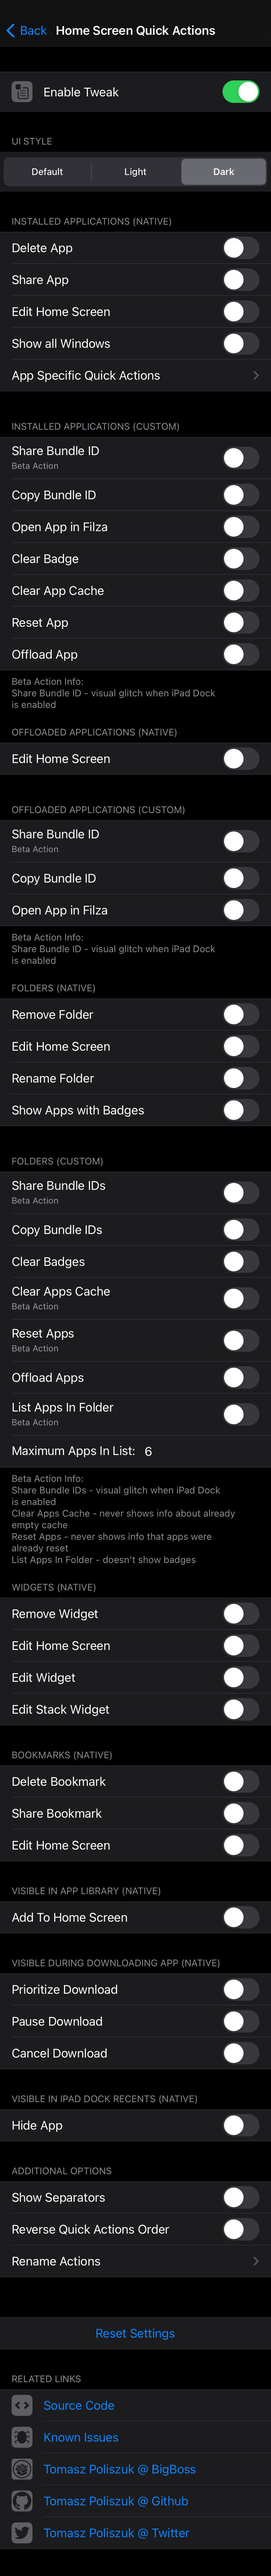
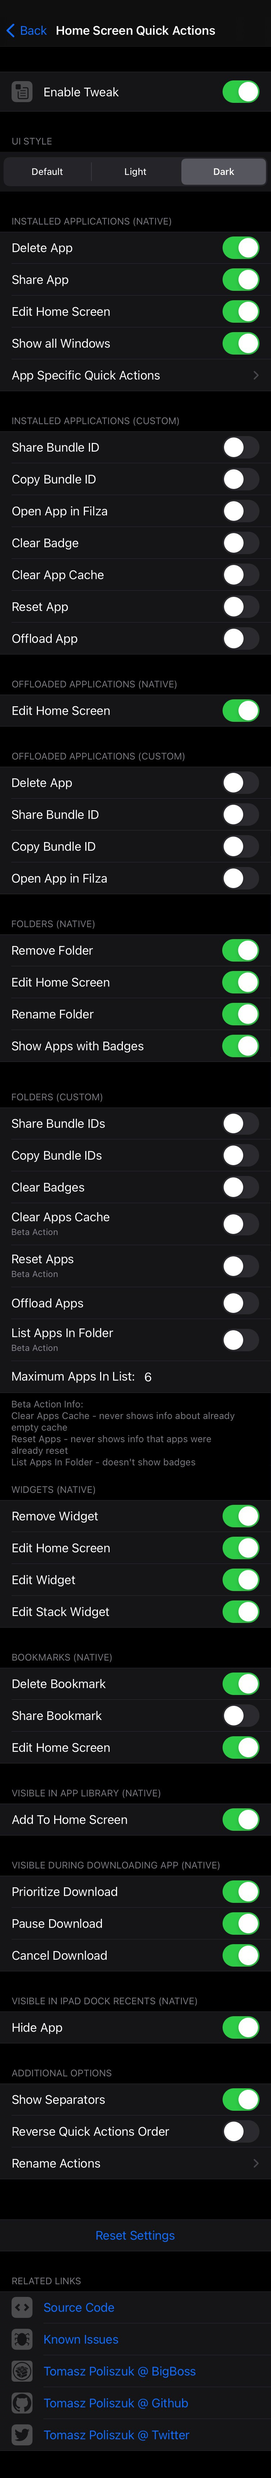
Added fix for sharing view, removed beta status of sharing actions

Changed region(s): [[0.0, 0.0, 1.0, 0.9962]]

diff --git a/BigBoss_description.html b/BigBoss_description.html
@@ -15,7 +15,7 @@
 - -	- Show all Windows<br>
 - -	- App Specific Quick Actions<br>
 - - Installed Applications (Custom):<br>
-- -	- Share Bundle ID (Beta)<br>
+- -	- Share Bundle ID<br>
 - -	- Copy Bundle ID<br>
 - -	- Open App in Filza<br>
 - -	- Clear Badge<br>
@@ -25,7 +25,7 @@
 - - Offloaded Applications (Native):<br>
 - -	- Edit Home Screen<br>
 - - Offloaded Applications (Custom):<br>
-- -	- Share Bundle ID (Beta)<br>
+- -	- Share Bundle ID<br>
 - -	- Copy Bundle ID<br>
 - -	- Open App in Filza<br>
 - - Folders (Native):<br>
@@ -34,7 +34,7 @@
 - -	- Rename Folder<br>
 - -	- Show Apps with Badges<br>
 - - Folders (Custom):<br>
-- -	- Share Bundle IDs (Beta)<br>
+- -	- Share Bundle IDs<br>
 - -	- Copy Bundle IDs<br>
 - -	- Clear Badges<br>
 - -	- Clear Apps Cache (Beta)<br>

diff --git a/HomeScreenQuickActionsSettings/HomeScreenQuickActionsApplicationSpecificQuickActions.mm b/HomeScreenQuickActionsSettings/HomeScreenQuickActionsApplicationSpecificQuickActions.mm
@@ -51,10 +51,7 @@
 			[specifier setProperty:[NSString stringWithFormat:@"appSpecificQuickActions-%@", applicationProxy.applicationIdentifier] forKey:@"key"];
 
 			bool isInstalled = applicationProxy.isInstalled;
-			bool isSystemApp = NO;
-			if ( [applicationProxy.applicationType isEqualToString:@"System"] ) {
-				isSystemApp = YES;
-			}
+			bool isSystemApp = [applicationProxy.applicationType isEqualToString:@"System"];
 
 			if ( isInstalled && isSystemApp ) {
 				[_specifiersInstalledSystemApps addObject:specifier];
@@ -65,21 +62,24 @@
 			}
 		}
 
-		[_specifiersInstalledSystemGroup addObject:[PSSpecifier groupSpecifierWithName:@"System Apps"]];
-		[_specifiersInstalledSystemApps sortUsingComparator:^NSComparisonResult(PSSpecifier *a, PSSpecifier *b) {
-			return [a.name localizedCaseInsensitiveCompare:b.name];
-		}];
-		[_specifiersInstalledSystemGroup addObjectsFromArray:_specifiersInstalledSystemApps];
-		self.specifiersInstalledSystemGroup = [_specifiersInstalledSystemGroup mutableCopy];
-		[_specifiers addObjectsFromArray:_specifiersInstalledSystemGroup];
-
-		[_specifiersInstalledUserGroup addObject:[PSSpecifier groupSpecifierWithName:@"User Apps"]];
-		[_specifiersInstalledUserApps sortUsingComparator:^NSComparisonResult(PSSpecifier *a, PSSpecifier *b) {
-			return [a.name localizedCaseInsensitiveCompare:b.name];
-		}];
-		[_specifiersInstalledUserGroup addObjectsFromArray:_specifiersInstalledUserApps];
-		self.specifiersInstalledUserGroup = [_specifiersInstalledUserGroup mutableCopy];
-		[_specifiers addObjectsFromArray:_specifiersInstalledUserGroup];
+		if ( _specifiersInstalledSystemApps.count > 0 ) {
+			[_specifiersInstalledSystemGroup addObject:[PSSpecifier groupSpecifierWithName:@"System Apps"]];
+			[_specifiersInstalledSystemApps sortUsingComparator:^NSComparisonResult(PSSpecifier *a, PSSpecifier *b) {
+				return [a.name localizedCaseInsensitiveCompare:b.name];
+			}];
+			[_specifiersInstalledSystemGroup addObjectsFromArray:_specifiersInstalledSystemApps];
+			self.specifiersInstalledSystemGroup = [_specifiersInstalledSystemGroup mutableCopy];
+			[_specifiers addObjectsFromArray:_specifiersInstalledSystemGroup];
+		}
+		if ( _specifiersInstalledUserApps.count > 0 ) {
+			[_specifiersInstalledUserGroup addObject:[PSSpecifier groupSpecifierWithName:@"User Apps"]];
+			[_specifiersInstalledUserApps sortUsingComparator:^NSComparisonResult(PSSpecifier *a, PSSpecifier *b) {
+				return [a.name localizedCaseInsensitiveCompare:b.name];
+			}];
+			[_specifiersInstalledUserGroup addObjectsFromArray:_specifiersInstalledUserApps];
+			self.specifiersInstalledUserGroup = [_specifiersInstalledUserGroup mutableCopy];
+			[_specifiers addObjectsFromArray:_specifiersInstalledUserGroup];
+		}
 
 		dispatch_async(dispatch_get_global_queue(DISPATCH_QUEUE_PRIORITY_DEFAULT, 0), ^{
 			for (PSSpecifier *specifier in _specifiers) {

diff --git a/HomeScreenQuickActions.h b/HomeScreenQuickActions.h
@@ -161,6 +161,8 @@ static NSString *const domainString = @"com.tomaszpoliszuk.homescreenquickaction
 
 @interface SBFloatingDockController : NSObject
 @property (nonatomic, readonly) SBFloatingDockViewController *floatingDockViewController;
+- (void)_dismissFloatingDockIfPresentedAnimated:(bool)arg1 completionHandler:(id /* block */)arg2;
+- (void)_presentFloatingDockIfDismissedAnimated:(bool)arg1 completionHandler:(id /* block */)arg2;
 @end
 
 @interface SBHIconManager : NSObject
@@ -172,4 +174,3 @@ static NSString *const domainString = @"com.tomaszpoliszuk.homescreenquickaction
 @property (nonatomic, readonly) SBHIconManager *iconManager;
 @property (nonatomic, readonly) SBFloatingDockController *floatingDockController;
 @end
-

diff --git a/HomeScreenQuickActionsSettings/PSSearchableListController.mm b/HomeScreenQuickActionsSettings/PSSearchableListController.mm
@@ -18,8 +18,7 @@
 		return;
 	}
 	NSPredicate *predicate = [NSPredicate predicateWithBlock:^BOOL(PSSpecifier *specifier, NSDictionary *bindings) {
-		NSString* key = [specifier propertyForKey:@"defaults"];
-		if (key) {
+		if ( specifier.cellType == PSGroupCell ) {
 			return [specifier.name.lowercaseString rangeOfString:text.lowercaseString].location != NSNotFound;
 		} else {
 			return YES;

diff --git a/README.md b/README.md
@@ -14,7 +14,7 @@ iOS 13 and above
 		* Show all Windows
 		* App Specific Quick Actions
 	* Installed Applications (Custom):
-		* Share Bundle ID (Beta)
+		* Share Bundle ID
 		* Copy Bundle ID
 		* Open App in Filza
 		* Clear Badge
@@ -24,7 +24,7 @@ iOS 13 and above
 	* Offloaded Applications (Native):
 		* Edit Home Screen
 	* Offloaded Applications (Custom):
-		* Share Bundle ID (Beta)
+		* Share Bundle ID
 		* Copy Bundle ID
 		* Open App in Filza
 	* Folders (Native):
@@ -33,7 +33,7 @@ iOS 13 and above
 		* Rename Folder
 		* Show Apps with Badges
 	* Folders (Custom):
-		* Share Bundle IDs (Beta)
+		* Share Bundle IDs
 		* Copy Bundle IDs
 		* Clear Badges
 		* Clear Apps Cache (Beta)
